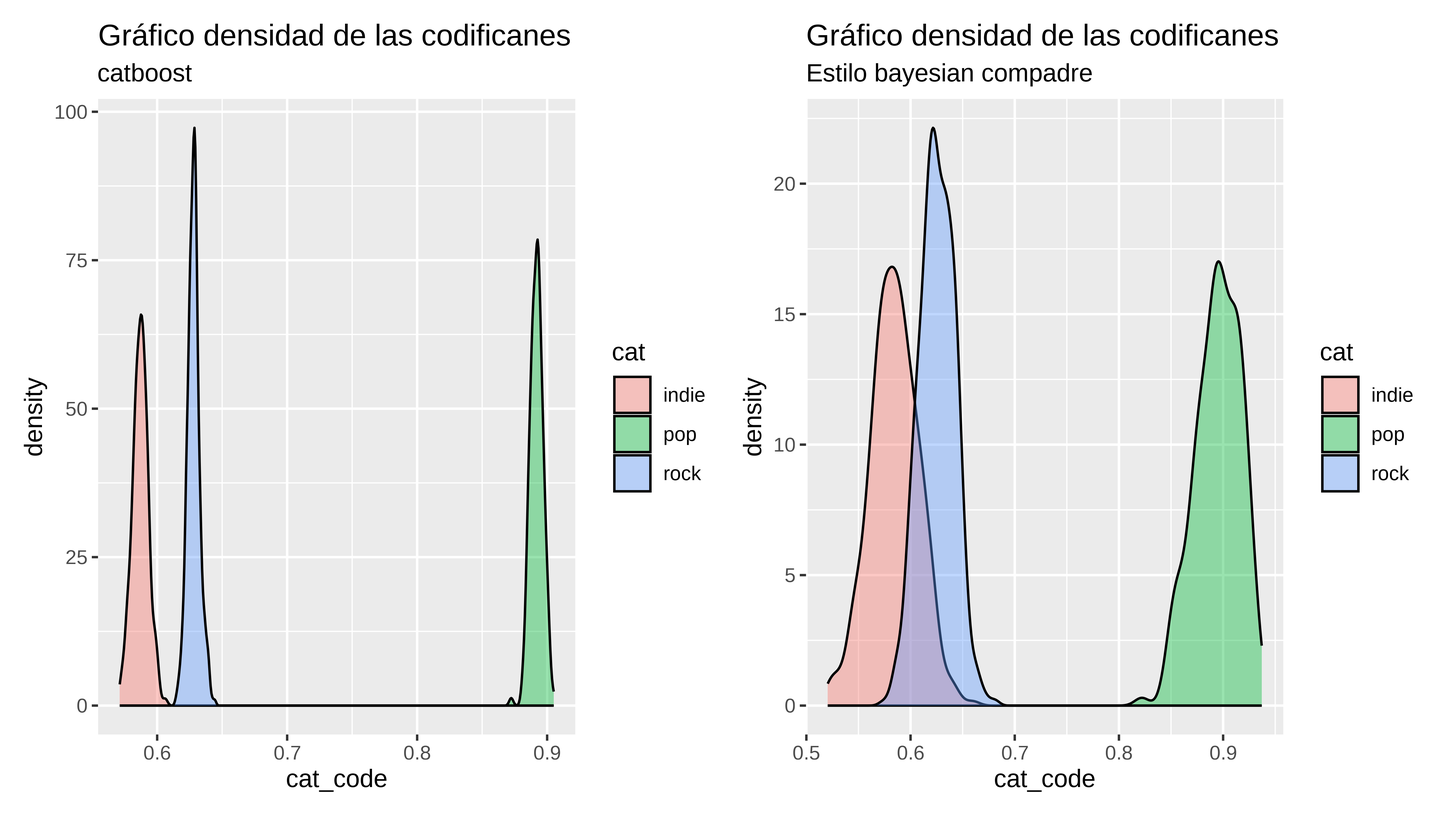
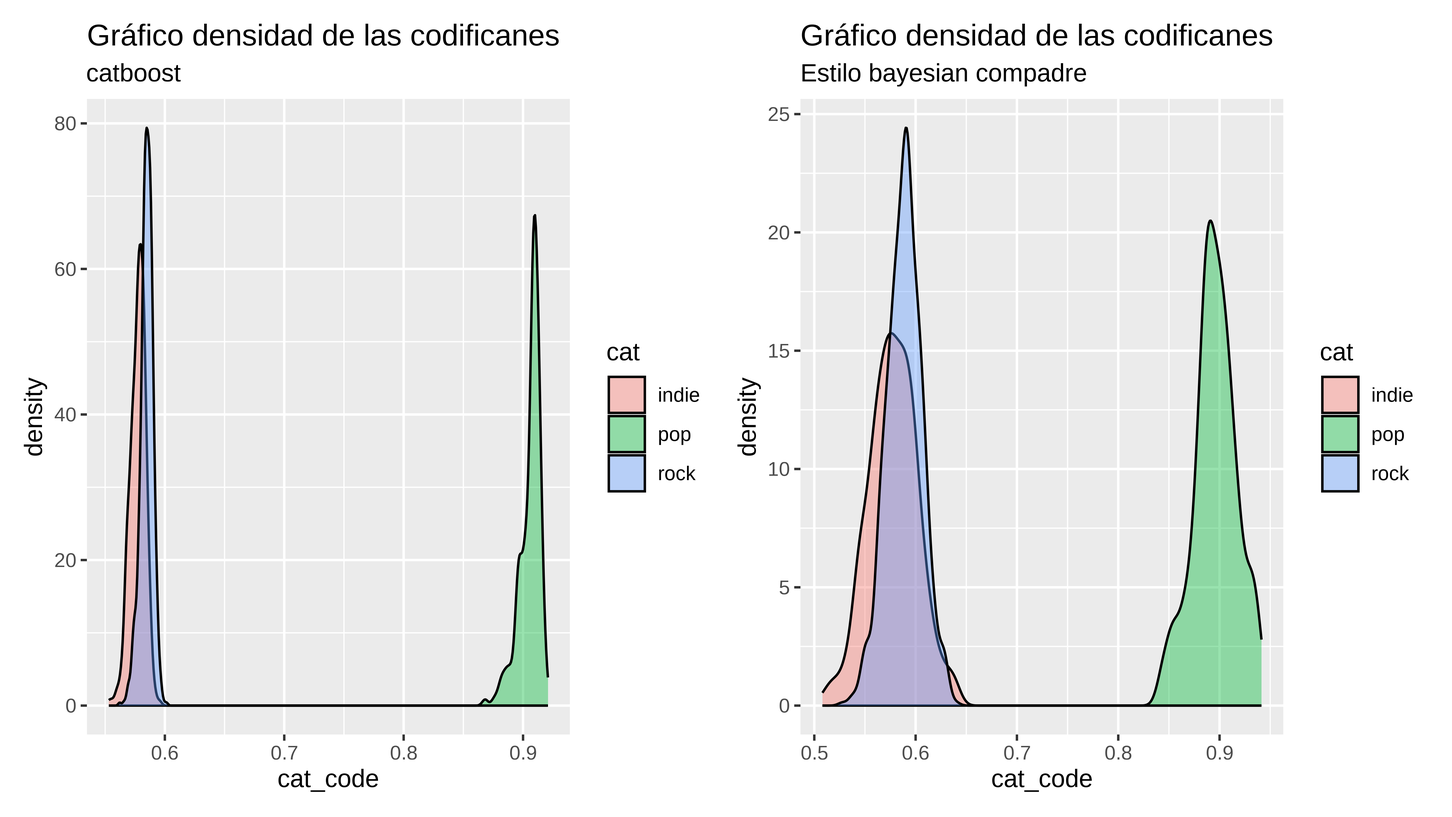
fix text

diff --git a/_site/2023/06/09/categoricas_a_lo_catboost_pensamientos/index.html b/_site/2023/06/09/categoricas_a_lo_catboost_pensamientos/index.html
@@ -437,20 +437,20 @@ code span.wa { color: #60a0b0; font-weight: bold; font-style: italic; } /* Warni
 <span id="cb7-15"><a href="#cb7-15" aria-hidden="true" tabindex="-1"></a><span class="co">#&gt; # Groups:   id [7]</span></span>
 <span id="cb7-16"><a href="#cb7-16" aria-hidden="true" tabindex="-1"></a><span class="co">#&gt;      id    f2 cat   label cat_code</span></span>
 <span id="cb7-17"><a href="#cb7-17" aria-hidden="true" tabindex="-1"></a><span class="co">#&gt;   &lt;dbl&gt; &lt;dbl&gt; &lt;chr&gt; &lt;dbl&gt;    &lt;dbl&gt;</span></span>
-<span id="cb7-18"><a href="#cb7-18" aria-hidden="true" tabindex="-1"></a><span class="co">#&gt; 1     1    53 rock      0   0.335 </span></span>
-<span id="cb7-19"><a href="#cb7-19" aria-hidden="true" tabindex="-1"></a><span class="co">#&gt; 2     2    55 indie     0   0.294 </span></span>
-<span id="cb7-20"><a href="#cb7-20" aria-hidden="true" tabindex="-1"></a><span class="co">#&gt; 3     3    40 rock      1   0.180 </span></span>
-<span id="cb7-21"><a href="#cb7-21" aria-hidden="true" tabindex="-1"></a><span class="co">#&gt; 4     4    42 rock      1   0.187 </span></span>
+<span id="cb7-18"><a href="#cb7-18" aria-hidden="true" tabindex="-1"></a><span class="co">#&gt; 1     1    53 rock      0   0.340 </span></span>
+<span id="cb7-19"><a href="#cb7-19" aria-hidden="true" tabindex="-1"></a><span class="co">#&gt; 2     2    55 indie     0   0.284 </span></span>
+<span id="cb7-20"><a href="#cb7-20" aria-hidden="true" tabindex="-1"></a><span class="co">#&gt; 3     3    40 rock      1   0.175 </span></span>
+<span id="cb7-21"><a href="#cb7-21" aria-hidden="true" tabindex="-1"></a><span class="co">#&gt; 4     4    42 rock      1   0.194 </span></span>
 <span id="cb7-22"><a href="#cb7-22" aria-hidden="true" tabindex="-1"></a><span class="co">#&gt; 5     5    34 pop       1   0.05  </span></span>
-<span id="cb7-23"><a href="#cb7-23" aria-hidden="true" tabindex="-1"></a><span class="co">#&gt; 6     6    48 indie     1   0.0378</span></span>
-<span id="cb7-24"><a href="#cb7-24" aria-hidden="true" tabindex="-1"></a><span class="co">#&gt; 7     7    45 rock      0   0.336</span></span></code><button title="Copy to Clipboard" class="code-copy-button"><i class="bi"></i></button></pre></div>
+<span id="cb7-23"><a href="#cb7-23" aria-hidden="true" tabindex="-1"></a><span class="co">#&gt; 6     6    48 indie     1   0.0373</span></span>
+<span id="cb7-24"><a href="#cb7-24" aria-hidden="true" tabindex="-1"></a><span class="co">#&gt; 7     7    45 rock      0   0.342</span></span></code><button title="Copy to Clipboard" class="code-copy-button"><i class="bi"></i></button></pre></div>
 </details>
 </div>
 </section>
 <section id="aproximación-compadre-bayesiana" class="level3">
 <h3 class="anchored" data-anchor-id="aproximación-compadre-bayesiana">Aproximación compadre bayesiana</h3>
 <p>¿Y si tomamos como priori una <math display="inline" xmlns="http://www.w3.org/1998/Math/MathML"><semantics><mrow><mstyle mathvariant="script"><mi>ℬ</mi></mstyle><mrow><mo stretchy="true" form="prefix">(</mo><mn>2</mn><mo>,</mo><mn>2</mn><mo stretchy="true" form="postfix">)</mo></mrow></mrow><annotation encoding="application/x-tex">\mathcal{B}(2,2)</annotation></semantics></math> y para cada categoría {rock, indie, pop} tomamos como su distribución a posteriori</p>
-<p><math display="inline" xmlns="http://www.w3.org/1998/Math/MathML"><semantics><mrow><mstyle mathvariant="script"><mi>ℬ</mi></mstyle><mrow><mo stretchy="true" form="prefix">(</mo><mn>2</mn><mo>+</mo><mtext mathvariant="normal">exitos en datos</mtext><mo>,</mo><mn>2</mn><mo>+</mo><mi>t</mi><mi>e</mi><mi>x</mi><mi>t</mi><mrow><mi>f</mi><mi>r</mi><mi>a</mi><mi>c</mi><mi>a</mi><mi>s</mi><mi>o</mi><mi>s</mi><mi>e</mi><mi>n</mi><mi>l</mi><mi>o</mi><mi>s</mi><mi>d</mi><mi>a</mi><mi>t</mi><mi>o</mi><mi>s</mi></mrow><mo stretchy="true" form="postfix">)</mo></mrow></mrow><annotation encoding="application/x-tex">\mathcal{B}(2 + \text{exitos en datos},2 + text{fracasos en los datos})</annotation></semantics></math> y para obtener un valor de la codificación para cada observación simplemente extraemos un valor aleatorio de esa distribución a posteriori?</p>
+<p><math display="inline" xmlns="http://www.w3.org/1998/Math/MathML"><semantics><mrow><mstyle mathvariant="script"><mi>ℬ</mi></mstyle><mrow><mo stretchy="true" form="prefix">(</mo><mn>2</mn><mo>+</mo><mtext mathvariant="normal">exitos en datos</mtext><mo>,</mo><mn>2</mn><mo>+</mo><mtext mathvariant="normal">fracasos en los datos</mtext><mo stretchy="true" form="postfix">)</mo></mrow></mrow><annotation encoding="application/x-tex">\mathcal{B}(2 + \text{exitos en datos},2 + \text{fracasos en los datos})</annotation></semantics></math> y para obtener un valor de la codificación para cada observación simplemente extraemos un valor aleatorio de esa distribución a posteriori?</p>
 <div class="cell">
 <details open="">
 <summary>Mostrar / ocultar código</summary>
@@ -470,13 +470,13 @@ code span.wa { color: #60a0b0; font-weight: bold; font-style: italic; } /* Warni
 <span id="cb8-14"><a href="#cb8-14" aria-hidden="true" tabindex="-1"></a><span class="co">#&gt; # A tibble: 7 × 7</span></span>
 <span id="cb8-15"><a href="#cb8-15" aria-hidden="true" tabindex="-1"></a><span class="co">#&gt;      id    f2 cat   label     n exitos cat_code</span></span>
 <span id="cb8-16"><a href="#cb8-16" aria-hidden="true" tabindex="-1"></a><span class="co">#&gt;   &lt;dbl&gt; &lt;dbl&gt; &lt;chr&gt; &lt;dbl&gt; &lt;int&gt;  &lt;dbl&gt;    &lt;dbl&gt;</span></span>
-<span id="cb8-17"><a href="#cb8-17" aria-hidden="true" tabindex="-1"></a><span class="co">#&gt; 1     1    53 rock      0     4      2    0.731</span></span>
-<span id="cb8-18"><a href="#cb8-18" aria-hidden="true" tabindex="-1"></a><span class="co">#&gt; 2     2    55 indie     0     2      1    0.725</span></span>
-<span id="cb8-19"><a href="#cb8-19" aria-hidden="true" tabindex="-1"></a><span class="co">#&gt; 3     3    40 rock      1     4      2    0.708</span></span>
-<span id="cb8-20"><a href="#cb8-20" aria-hidden="true" tabindex="-1"></a><span class="co">#&gt; 4     4    42 rock      1     4      2    0.562</span></span>
-<span id="cb8-21"><a href="#cb8-21" aria-hidden="true" tabindex="-1"></a><span class="co">#&gt; 5     5    34 pop       1     1      1    0.391</span></span>
-<span id="cb8-22"><a href="#cb8-22" aria-hidden="true" tabindex="-1"></a><span class="co">#&gt; 6     6    48 indie     1     2      1    0.251</span></span>
-<span id="cb8-23"><a href="#cb8-23" aria-hidden="true" tabindex="-1"></a><span class="co">#&gt; 7     7    45 rock      0     4      2    0.582</span></span></code><button title="Copy to Clipboard" class="code-copy-button"><i class="bi"></i></button></pre></div>
+<span id="cb8-17"><a href="#cb8-17" aria-hidden="true" tabindex="-1"></a><span class="co">#&gt; 1     1    53 rock      0     4      2    0.407</span></span>
+<span id="cb8-18"><a href="#cb8-18" aria-hidden="true" tabindex="-1"></a><span class="co">#&gt; 2     2    55 indie     0     2      1    0.467</span></span>
+<span id="cb8-19"><a href="#cb8-19" aria-hidden="true" tabindex="-1"></a><span class="co">#&gt; 3     3    40 rock      1     4      2    0.530</span></span>
+<span id="cb8-20"><a href="#cb8-20" aria-hidden="true" tabindex="-1"></a><span class="co">#&gt; 4     4    42 rock      1     4      2    0.532</span></span>
+<span id="cb8-21"><a href="#cb8-21" aria-hidden="true" tabindex="-1"></a><span class="co">#&gt; 5     5    34 pop       1     1      1    0.287</span></span>
+<span id="cb8-22"><a href="#cb8-22" aria-hidden="true" tabindex="-1"></a><span class="co">#&gt; 6     6    48 indie     1     2      1    0.290</span></span>
+<span id="cb8-23"><a href="#cb8-23" aria-hidden="true" tabindex="-1"></a><span class="co">#&gt; 7     7    45 rock      0     4      2    0.801</span></span></code><button title="Copy to Clipboard" class="code-copy-button"><i class="bi"></i></button></pre></div>
 </details>
 </div>
 <p>Pues tiene pinta de que esta aproximación podría ser tan válida como la que describen los de catboost y en principio es más sencilla.</p>
@@ -524,7 +524,7 @@ code span.wa { color: #60a0b0; font-weight: bold; font-style: italic; } /* Warni
 <span id="cb10-9"><a href="#cb10-9" aria-hidden="true" tabindex="-1"></a><span class="fu">table</span>(mydf_big<span class="sc">$</span>label)</span>
 <span id="cb10-10"><a href="#cb10-10" aria-hidden="true" tabindex="-1"></a><span class="co">#&gt; </span></span>
 <span id="cb10-11"><a href="#cb10-11" aria-hidden="true" tabindex="-1"></a><span class="co">#&gt;   0   1 </span></span>
-<span id="cb10-12"><a href="#cb10-12" aria-hidden="true" tabindex="-1"></a><span class="co">#&gt; 485 915</span></span>
+<span id="cb10-12"><a href="#cb10-12" aria-hidden="true" tabindex="-1"></a><span class="co">#&gt; 508 892</span></span>
 <span id="cb10-13"><a href="#cb10-13" aria-hidden="true" tabindex="-1"></a></span>
 <span id="cb10-14"><a href="#cb10-14" aria-hidden="true" tabindex="-1"></a><span class="co"># vemos que hemos cambiado algunos valores en label</span></span>
 <span id="cb10-15"><a href="#cb10-15" aria-hidden="true" tabindex="-1"></a><span class="fu">head</span>(mydf_big, <span class="dv">10</span>)</span>
@@ -532,7 +532,7 @@ code span.wa { color: #60a0b0; font-weight: bold; font-style: italic; } /* Warni
 <span id="cb10-17"><a href="#cb10-17" aria-hidden="true" tabindex="-1"></a><span class="co">#&gt;       id    f2 cat   label</span></span>
 <span id="cb10-18"><a href="#cb10-18" aria-hidden="true" tabindex="-1"></a><span class="co">#&gt;    &lt;int&gt; &lt;dbl&gt; &lt;chr&gt; &lt;int&gt;</span></span>
 <span id="cb10-19"><a href="#cb10-19" aria-hidden="true" tabindex="-1"></a><span class="co">#&gt;  1     1    53 rock      1</span></span>
-<span id="cb10-20"><a href="#cb10-20" aria-hidden="true" tabindex="-1"></a><span class="co">#&gt;  2     2    55 indie     0</span></span>
+<span id="cb10-20"><a href="#cb10-20" aria-hidden="true" tabindex="-1"></a><span class="co">#&gt;  2     2    55 indie     1</span></span>
 <span id="cb10-21"><a href="#cb10-21" aria-hidden="true" tabindex="-1"></a><span class="co">#&gt;  3     3    40 rock      1</span></span>
 <span id="cb10-22"><a href="#cb10-22" aria-hidden="true" tabindex="-1"></a><span class="co">#&gt;  4     4    42 rock      1</span></span>
 <span id="cb10-23"><a href="#cb10-23" aria-hidden="true" tabindex="-1"></a><span class="co">#&gt;  5     5    34 pop       1</span></span>
@@ -558,18 +558,18 @@ code span.wa { color: #60a0b0; font-weight: bold; font-style: italic; } /* Warni
 <span id="cb11-6"><a href="#cb11-6" aria-hidden="true" tabindex="-1"></a><span class="co">#&gt; # Groups:   label [2]</span></span>
 <span id="cb11-7"><a href="#cb11-7" aria-hidden="true" tabindex="-1"></a><span class="co">#&gt;   label     n</span></span>
 <span id="cb11-8"><a href="#cb11-8" aria-hidden="true" tabindex="-1"></a><span class="co">#&gt;   &lt;int&gt; &lt;int&gt;</span></span>
-<span id="cb11-9"><a href="#cb11-9" aria-hidden="true" tabindex="-1"></a><span class="co">#&gt; 1     0     5</span></span>
-<span id="cb11-10"><a href="#cb11-10" aria-hidden="true" tabindex="-1"></a><span class="co">#&gt; 2     1     5</span></span>
+<span id="cb11-9"><a href="#cb11-9" aria-hidden="true" tabindex="-1"></a><span class="co">#&gt; 1     0     7</span></span>
+<span id="cb11-10"><a href="#cb11-10" aria-hidden="true" tabindex="-1"></a><span class="co">#&gt; 2     1     3</span></span>
 <span id="cb11-11"><a href="#cb11-11" aria-hidden="true" tabindex="-1"></a></span>
 <span id="cb11-12"><a href="#cb11-12" aria-hidden="true" tabindex="-1"></a></span>
 <span id="cb11-13"><a href="#cb11-13" aria-hidden="true" tabindex="-1"></a>(prior_shape1 <span class="ot">&lt;-</span>  muestra<span class="sc">$</span>n[muestra<span class="sc">$</span>label<span class="sc">==</span><span class="dv">1</span>])</span>
-<span id="cb11-14"><a href="#cb11-14" aria-hidden="true" tabindex="-1"></a><span class="co">#&gt; [1] 5</span></span>
+<span id="cb11-14"><a href="#cb11-14" aria-hidden="true" tabindex="-1"></a><span class="co">#&gt; [1] 3</span></span>
 <span id="cb11-15"><a href="#cb11-15" aria-hidden="true" tabindex="-1"></a>(prior_shape2 <span class="ot">&lt;-</span>  muestra<span class="sc">$</span>n[muestra<span class="sc">$</span>label<span class="sc">==</span><span class="dv">0</span>])</span>
-<span id="cb11-16"><a href="#cb11-16" aria-hidden="true" tabindex="-1"></a><span class="co">#&gt; [1] 5</span></span>
+<span id="cb11-16"><a href="#cb11-16" aria-hidden="true" tabindex="-1"></a><span class="co">#&gt; [1] 7</span></span>
 <span id="cb11-17"><a href="#cb11-17" aria-hidden="true" tabindex="-1"></a></span>
 <span id="cb11-18"><a href="#cb11-18" aria-hidden="true" tabindex="-1"></a></span>
 <span id="cb11-19"><a href="#cb11-19" aria-hidden="true" tabindex="-1"></a>(prior_catboost <span class="ot">&lt;-</span> prior_shape1 <span class="sc">/</span>(prior_shape1 <span class="sc">+</span> prior_shape2))</span>
-<span id="cb11-20"><a href="#cb11-20" aria-hidden="true" tabindex="-1"></a><span class="co">#&gt; [1] 0.5</span></span></code><button title="Copy to Clipboard" class="code-copy-button"><i class="bi"></i></button></pre></div>
+<span id="cb11-20"><a href="#cb11-20" aria-hidden="true" tabindex="-1"></a><span class="co">#&gt; [1] 0.3</span></span></code><button title="Copy to Clipboard" class="code-copy-button"><i class="bi"></i></button></pre></div>
 </details>
 </div>
 <section id="catboost-codificación" class="level4">
@@ -584,7 +584,7 @@ code span.wa { color: #60a0b0; font-weight: bold; font-style: italic; } /* Warni
 <span id="cb12-5"><a href="#cb12-5" aria-hidden="true" tabindex="-1"></a></span>
 <span id="cb12-6"><a href="#cb12-6" aria-hidden="true" tabindex="-1"></a></span>
 <span id="cb12-7"><a href="#cb12-7" aria-hidden="true" tabindex="-1"></a>tictoc<span class="sc">::</span><span class="fu">toc</span>(<span class="at">log=</span><span class="cn">TRUE</span>)</span>
-<span id="cb12-8"><a href="#cb12-8" aria-hidden="true" tabindex="-1"></a><span class="co">#&gt; catbost_code: 3.168 sec elapsed</span></span>
+<span id="cb12-8"><a href="#cb12-8" aria-hidden="true" tabindex="-1"></a><span class="co">#&gt; catbost_code: 3.293 sec elapsed</span></span>
 <span id="cb12-9"><a href="#cb12-9" aria-hidden="true" tabindex="-1"></a></span>
 <span id="cb12-10"><a href="#cb12-10" aria-hidden="true" tabindex="-1"></a><span class="fu">dim</span>(cod_catboost)</span>
 <span id="cb12-11"><a href="#cb12-11" aria-hidden="true" tabindex="-1"></a><span class="co">#&gt; [1] 70000     5</span></span></code><button title="Copy to Clipboard" class="code-copy-button"><i class="bi"></i></button></pre></div>
@@ -608,12 +608,12 @@ code span.wa { color: #60a0b0; font-weight: bold; font-style: italic; } /* Warni
 <span id="cb13-13"><a href="#cb13-13" aria-hidden="true" tabindex="-1"></a><span class="co">#&gt; # Groups:   id [6]</span></span>
 <span id="cb13-14"><a href="#cb13-14" aria-hidden="true" tabindex="-1"></a><span class="co">#&gt;      id    f2 cat   label cat_code</span></span>
 <span id="cb13-15"><a href="#cb13-15" aria-hidden="true" tabindex="-1"></a><span class="co">#&gt;   &lt;int&gt; &lt;dbl&gt; &lt;chr&gt; &lt;int&gt;    &lt;dbl&gt;</span></span>
-<span id="cb13-16"><a href="#cb13-16" aria-hidden="true" tabindex="-1"></a><span class="co">#&gt; 1     1    53 rock      1    0.611</span></span>
-<span id="cb13-17"><a href="#cb13-17" aria-hidden="true" tabindex="-1"></a><span class="co">#&gt; 2     2    55 indie     0    0.615</span></span>
-<span id="cb13-18"><a href="#cb13-18" aria-hidden="true" tabindex="-1"></a><span class="co">#&gt; 3     3    40 rock      1    0.605</span></span>
-<span id="cb13-19"><a href="#cb13-19" aria-hidden="true" tabindex="-1"></a><span class="co">#&gt; 4     4    42 rock      1    0.617</span></span>
-<span id="cb13-20"><a href="#cb13-20" aria-hidden="true" tabindex="-1"></a><span class="co">#&gt; 5     5    34 pop       1    0.883</span></span>
-<span id="cb13-21"><a href="#cb13-21" aria-hidden="true" tabindex="-1"></a><span class="co">#&gt; 6     6    48 indie     1    0.610</span></span></code><button title="Copy to Clipboard" class="code-copy-button"><i class="bi"></i></button></pre></div>
+<span id="cb13-16"><a href="#cb13-16" aria-hidden="true" tabindex="-1"></a><span class="co">#&gt; 1     1    53 rock      1    0.587</span></span>
+<span id="cb13-17"><a href="#cb13-17" aria-hidden="true" tabindex="-1"></a><span class="co">#&gt; 2     2    55 indie     1    0.567</span></span>
+<span id="cb13-18"><a href="#cb13-18" aria-hidden="true" tabindex="-1"></a><span class="co">#&gt; 3     3    40 rock      1    0.577</span></span>
+<span id="cb13-19"><a href="#cb13-19" aria-hidden="true" tabindex="-1"></a><span class="co">#&gt; 4     4    42 rock      1    0.586</span></span>
+<span id="cb13-20"><a href="#cb13-20" aria-hidden="true" tabindex="-1"></a><span class="co">#&gt; 5     5    34 pop       1    0.910</span></span>
+<span id="cb13-21"><a href="#cb13-21" aria-hidden="true" tabindex="-1"></a><span class="co">#&gt; 6     6    48 indie     1    0.582</span></span></code><button title="Copy to Clipboard" class="code-copy-button"><i class="bi"></i></button></pre></div>
 </details>
 </div>
 </section>
@@ -635,18 +635,18 @@ code span.wa { color: #60a0b0; font-weight: bold; font-style: italic; } /* Warni
 <span id="cb14-11"><a href="#cb14-11" aria-hidden="true" tabindex="-1"></a>    ) </span>
 <span id="cb14-12"><a href="#cb14-12" aria-hidden="true" tabindex="-1"></a></span>
 <span id="cb14-13"><a href="#cb14-13" aria-hidden="true" tabindex="-1"></a>tictoc<span class="sc">::</span><span class="fu">toc</span>(<span class="at">log =</span> <span class="cn">TRUE</span>)</span>
-<span id="cb14-14"><a href="#cb14-14" aria-hidden="true" tabindex="-1"></a><span class="co">#&gt; estilo compadre: 0.017 sec elapsed</span></span>
+<span id="cb14-14"><a href="#cb14-14" aria-hidden="true" tabindex="-1"></a><span class="co">#&gt; estilo compadre: 0.023 sec elapsed</span></span>
 <span id="cb14-15"><a href="#cb14-15" aria-hidden="true" tabindex="-1"></a></span>
 <span id="cb14-16"><a href="#cb14-16" aria-hidden="true" tabindex="-1"></a><span class="fu">head</span>(estilo_compadre)</span>
 <span id="cb14-17"><a href="#cb14-17" aria-hidden="true" tabindex="-1"></a><span class="co">#&gt; # A tibble: 6 × 7</span></span>
 <span id="cb14-18"><a href="#cb14-18" aria-hidden="true" tabindex="-1"></a><span class="co">#&gt;      id    f2 cat   label     n exitos cat_code</span></span>
 <span id="cb14-19"><a href="#cb14-19" aria-hidden="true" tabindex="-1"></a><span class="co">#&gt;   &lt;int&gt; &lt;dbl&gt; &lt;chr&gt; &lt;int&gt; &lt;int&gt;  &lt;int&gt;    &lt;dbl&gt;</span></span>
-<span id="cb14-20"><a href="#cb14-20" aria-hidden="true" tabindex="-1"></a><span class="co">#&gt; 1     1    53 rock      1   800    489    0.614</span></span>
-<span id="cb14-21"><a href="#cb14-21" aria-hidden="true" tabindex="-1"></a><span class="co">#&gt; 2     2    55 indie     0   400    247    0.675</span></span>
-<span id="cb14-22"><a href="#cb14-22" aria-hidden="true" tabindex="-1"></a><span class="co">#&gt; 3     3    40 rock      1   800    489    0.605</span></span>
-<span id="cb14-23"><a href="#cb14-23" aria-hidden="true" tabindex="-1"></a><span class="co">#&gt; 4     4    42 rock      1   800    489    0.622</span></span>
-<span id="cb14-24"><a href="#cb14-24" aria-hidden="true" tabindex="-1"></a><span class="co">#&gt; 5     5    34 pop       1   200    179    0.866</span></span>
-<span id="cb14-25"><a href="#cb14-25" aria-hidden="true" tabindex="-1"></a><span class="co">#&gt; 6     6    48 indie     1   400    247    0.624</span></span></code><button title="Copy to Clipboard" class="code-copy-button"><i class="bi"></i></button></pre></div>
+<span id="cb14-20"><a href="#cb14-20" aria-hidden="true" tabindex="-1"></a><span class="co">#&gt; 1     1    53 rock      1   800    474    0.604</span></span>
+<span id="cb14-21"><a href="#cb14-21" aria-hidden="true" tabindex="-1"></a><span class="co">#&gt; 2     2    55 indie     1   400    233    0.539</span></span>
+<span id="cb14-22"><a href="#cb14-22" aria-hidden="true" tabindex="-1"></a><span class="co">#&gt; 3     3    40 rock      1   800    474    0.572</span></span>
+<span id="cb14-23"><a href="#cb14-23" aria-hidden="true" tabindex="-1"></a><span class="co">#&gt; 4     4    42 rock      1   800    474    0.563</span></span>
+<span id="cb14-24"><a href="#cb14-24" aria-hidden="true" tabindex="-1"></a><span class="co">#&gt; 5     5    34 pop       1   200    185    0.854</span></span>
+<span id="cb14-25"><a href="#cb14-25" aria-hidden="true" tabindex="-1"></a><span class="co">#&gt; 6     6    48 indie     1   400    233    0.558</span></span></code><button title="Copy to Clipboard" class="code-copy-button"><i class="bi"></i></button></pre></div>
 </details>
 </div>
 <p>¿cómo de parecidas son las dos codificaciones?</p>
@@ -655,7 +655,7 @@ code span.wa { color: #60a0b0; font-weight: bold; font-style: italic; } /* Warni
 <details open="">
 <summary>Mostrar / ocultar código</summary>
 <div class="sourceCode cell-code" id="cb15"><pre class="sourceCode r code-with-copy"><code class="sourceCode r"><span id="cb15-1"><a href="#cb15-1" aria-hidden="true" tabindex="-1"></a><span class="fu">cor</span>(cod_catboost<span class="sc">$</span>cat_code, estilo_compadre<span class="sc">$</span>cat_code)</span>
-<span id="cb15-2"><a href="#cb15-2" aria-hidden="true" tabindex="-1"></a><span class="co">#&gt; [1] 0.9765692</span></span></code><button title="Copy to Clipboard" class="code-copy-button"><i class="bi"></i></button></pre></div>
+<span id="cb15-2"><a href="#cb15-2" aria-hidden="true" tabindex="-1"></a><span class="co">#&gt; [1] 0.9819561</span></span></code><button title="Copy to Clipboard" class="code-copy-button"><i class="bi"></i></button></pre></div>
 </details>
 </div>
 <p>Parece que la codificación estilo compadre es un poco más dispersa, lo cual no tiene por qué ser necesariamente malo.</p>
@@ -672,9 +672,9 @@ code span.wa { color: #60a0b0; font-weight: bold; font-style: italic; } /* Warni
 <span id="cb16-8"><a href="#cb16-8" aria-hidden="true" tabindex="-1"></a><span class="co">#&gt; # A tibble: 3 × 5</span></span>
 <span id="cb16-9"><a href="#cb16-9" aria-hidden="true" tabindex="-1"></a><span class="co">#&gt;   cat   media   low  high sd_value</span></span>
 <span id="cb16-10"><a href="#cb16-10" aria-hidden="true" tabindex="-1"></a><span class="co">#&gt;   &lt;chr&gt; &lt;dbl&gt; &lt;dbl&gt; &lt;dbl&gt;    &lt;dbl&gt;</span></span>
-<span id="cb16-11"><a href="#cb16-11" aria-hidden="true" tabindex="-1"></a><span class="co">#&gt; 1 indie 0.619 0.608 0.629  0.00620</span></span>
-<span id="cb16-12"><a href="#cb16-12" aria-hidden="true" tabindex="-1"></a><span class="co">#&gt; 2 pop   0.885 0.874 0.895  0.00648</span></span>
-<span id="cb16-13"><a href="#cb16-13" aria-hidden="true" tabindex="-1"></a><span class="co">#&gt; 3 rock  0.610 0.603 0.617  0.00461</span></span>
+<span id="cb16-11"><a href="#cb16-11" aria-hidden="true" tabindex="-1"></a><span class="co">#&gt; 1 indie 0.577 0.567 0.587  0.00635</span></span>
+<span id="cb16-12"><a href="#cb16-12" aria-hidden="true" tabindex="-1"></a><span class="co">#&gt; 2 pop   0.906 0.888 0.916  0.00871</span></span>
+<span id="cb16-13"><a href="#cb16-13" aria-hidden="true" tabindex="-1"></a><span class="co">#&gt; 3 rock  0.585 0.575 0.592  0.00520</span></span>
 <span id="cb16-14"><a href="#cb16-14" aria-hidden="true" tabindex="-1"></a></span>
 <span id="cb16-15"><a href="#cb16-15" aria-hidden="true" tabindex="-1"></a></span>
 <span id="cb16-16"><a href="#cb16-16" aria-hidden="true" tabindex="-1"></a>estilo_compadre <span class="sc">|&gt;</span> </span>
@@ -686,9 +686,9 @@ code span.wa { color: #60a0b0; font-weight: bold; font-style: italic; } /* Warni
 <span id="cb16-22"><a href="#cb16-22" aria-hidden="true" tabindex="-1"></a><span class="co">#&gt; # A tibble: 3 × 5</span></span>
 <span id="cb16-23"><a href="#cb16-23" aria-hidden="true" tabindex="-1"></a><span class="co">#&gt;   cat   media   low  high sd_value</span></span>
 <span id="cb16-24"><a href="#cb16-24" aria-hidden="true" tabindex="-1"></a><span class="co">#&gt;   &lt;chr&gt; &lt;dbl&gt; &lt;dbl&gt; &lt;dbl&gt;    &lt;dbl&gt;</span></span>
-<span id="cb16-25"><a href="#cb16-25" aria-hidden="true" tabindex="-1"></a><span class="co">#&gt; 1 indie 0.615 0.579 0.652   0.0223</span></span>
-<span id="cb16-26"><a href="#cb16-26" aria-hidden="true" tabindex="-1"></a><span class="co">#&gt; 2 pop   0.875 0.841 0.909   0.0214</span></span>
-<span id="cb16-27"><a href="#cb16-27" aria-hidden="true" tabindex="-1"></a><span class="co">#&gt; 3 rock  0.610 0.581 0.638   0.0172</span></span></code><button title="Copy to Clipboard" class="code-copy-button"><i class="bi"></i></button></pre></div>
+<span id="cb16-25"><a href="#cb16-25" aria-hidden="true" tabindex="-1"></a><span class="co">#&gt; 1 indie 0.578 0.541 0.616   0.0240</span></span>
+<span id="cb16-26"><a href="#cb16-26" aria-hidden="true" tabindex="-1"></a><span class="co">#&gt; 2 pop   0.896 0.857 0.933   0.0209</span></span>
+<span id="cb16-27"><a href="#cb16-27" aria-hidden="true" tabindex="-1"></a><span class="co">#&gt; 3 rock  0.589 0.561 0.617   0.0173</span></span></code><button title="Copy to Clipboard" class="code-copy-button"><i class="bi"></i></button></pre></div>
 </details>
 </div>
 <div class="cell">
@@ -743,18 +743,18 @@ code span.wa { color: #60a0b0; font-weight: bold; font-style: italic; } /* Warni
 <span id="cb18-21"><a href="#cb18-21" aria-hidden="true" tabindex="-1"></a><span class="fu">mclapply</span>(<span class="fu">list</span>(cod_catboost, estilo_compadre), train_predict_simple, <span class="at">mc.cores =</span> <span class="dv">2</span>)</span>
 <span id="cb18-22"><a href="#cb18-22" aria-hidden="true" tabindex="-1"></a><span class="co">#&gt; [[1]]</span></span>
 <span id="cb18-23"><a href="#cb18-23" aria-hidden="true" tabindex="-1"></a><span class="co">#&gt; [[1]]$auc_base</span></span>
-<span id="cb18-24"><a href="#cb18-24" aria-hidden="true" tabindex="-1"></a><span class="co">#&gt; Area under the curve: 0.8121</span></span>
+<span id="cb18-24"><a href="#cb18-24" aria-hidden="true" tabindex="-1"></a><span class="co">#&gt; Area under the curve: 0.8231</span></span>
 <span id="cb18-25"><a href="#cb18-25" aria-hidden="true" tabindex="-1"></a><span class="co">#&gt; </span></span>
 <span id="cb18-26"><a href="#cb18-26" aria-hidden="true" tabindex="-1"></a><span class="co">#&gt; [[1]]$auc</span></span>
-<span id="cb18-27"><a href="#cb18-27" aria-hidden="true" tabindex="-1"></a><span class="co">#&gt; Area under the curve: 0.7696</span></span>
+<span id="cb18-27"><a href="#cb18-27" aria-hidden="true" tabindex="-1"></a><span class="co">#&gt; Area under the curve: 0.7693</span></span>
 <span id="cb18-28"><a href="#cb18-28" aria-hidden="true" tabindex="-1"></a><span class="co">#&gt; </span></span>
 <span id="cb18-29"><a href="#cb18-29" aria-hidden="true" tabindex="-1"></a><span class="co">#&gt; </span></span>
 <span id="cb18-30"><a href="#cb18-30" aria-hidden="true" tabindex="-1"></a><span class="co">#&gt; [[2]]</span></span>
 <span id="cb18-31"><a href="#cb18-31" aria-hidden="true" tabindex="-1"></a><span class="co">#&gt; [[2]]$auc_base</span></span>
-<span id="cb18-32"><a href="#cb18-32" aria-hidden="true" tabindex="-1"></a><span class="co">#&gt; Area under the curve: 0.8121</span></span>
+<span id="cb18-32"><a href="#cb18-32" aria-hidden="true" tabindex="-1"></a><span class="co">#&gt; Area under the curve: 0.8231</span></span>
 <span id="cb18-33"><a href="#cb18-33" aria-hidden="true" tabindex="-1"></a><span class="co">#&gt; </span></span>
 <span id="cb18-34"><a href="#cb18-34" aria-hidden="true" tabindex="-1"></a><span class="co">#&gt; [[2]]$auc</span></span>
-<span id="cb18-35"><a href="#cb18-35" aria-hidden="true" tabindex="-1"></a><span class="co">#&gt; Area under the curve: 0.7586</span></span></code><button title="Copy to Clipboard" class="code-copy-button"><i class="bi"></i></button></pre></div>
+<span id="cb18-35"><a href="#cb18-35" aria-hidden="true" tabindex="-1"></a><span class="co">#&gt; Area under the curve: 0.7658</span></span></code><button title="Copy to Clipboard" class="code-copy-button"><i class="bi"></i></button></pre></div>
 </details>
 </div>
 </section>
@@ -909,7 +909,7 @@ window.document.addEventListener("DOMContentLoaded", function (event) {
 <script src="https://giscus.app/client.js" data-repo="joscani/blogComments" data-repo-id="R_kgDOIXA9wA" data-category="General" data-category-id="DIC_kwDOIXA9wM4CSZhs" data-mapping="title" data-reactions-enabled="1" data-emit-metadata="0" data-input-position="top" data-theme="light" data-lang="en" crossorigin="anonymous" async="">
 </script>
 </div> <!-- /content -->
-<script>var lightboxQuarto = GLightbox({"openEffect":"zoom","loop":true,"closeEffect":"zoom","selector":".lightbox","descPosition":"bottom"});</script>
+<script>var lightboxQuarto = GLightbox({"selector":".lightbox","loop":true,"descPosition":"bottom","closeEffect":"zoom","openEffect":"zoom"});</script>
 
 
 

diff --git a/_site/blog.html b/_site/blog.html
@@ -222,7 +222,7 @@ ul.task-list li input[type="checkbox"] {
     </div>
 </div>
 <div class="list quarto-listing-default">
-<div class="quarto-post image-right" data-index="0" data-categories="Estadística,categóricas,R,catboost,2023" data-listing-date-sort="1686261600000" data-listing-file-modified-sort="1685872954201" data-listing-reading-time-sort="9.445">
+<div class="quarto-post image-right" data-index="0" data-categories="Estadística,categóricas,R,catboost,2023" data-listing-date-sort="1686261600000" data-listing-file-modified-sort="1685874727465" data-listing-reading-time-sort="9.445">
 <div class="thumbnail">
 <p><a href="./2023/06/09/categoricas_a_lo_catboost_pensamientos/index.html"> <img src="./2023/06/09/categoricas_a_lo_catboost_pensamientos/coches_cod_catboost.png" class="thumnail-image"> </a></p>
 </div>
